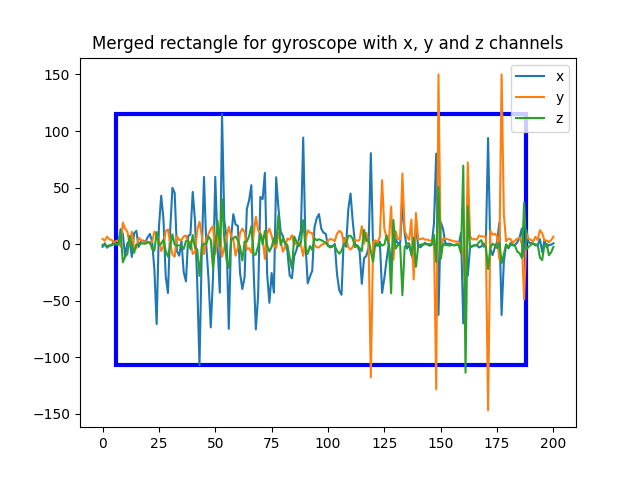
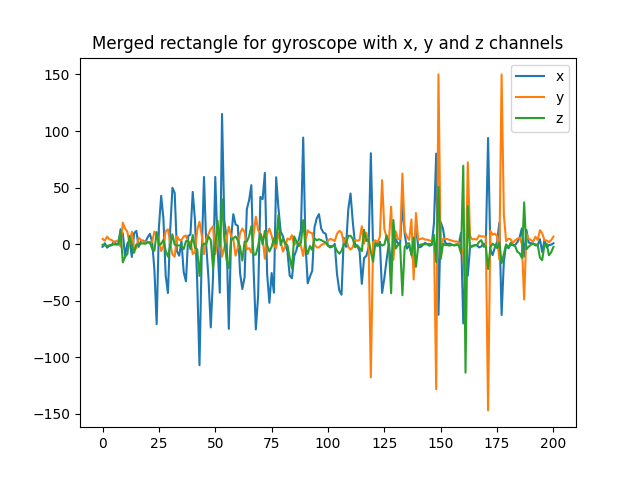
rewrite rectangle extraction, works better, need to plot

Changed region(s): [[0.1562, 0.2188, 0.8438, 0.7812]]

diff --git a/signalUtils.py b/signalUtils.py
@@ -52,46 +52,15 @@ def all_calculations(downsampled_x_accel, downsampled_y_accel, downsampled_z_acc
     
     return start_xaccel, end_xaccel, start_yaccel, end_yaccel, start_zaccel, end_zaccel
 
-def rectangle_extraction(downsampled_x_accel, downsampled_y_accel, downsampled_z_accel, start_xaccel, start_yaccel, start_zaccel, end_xaccel, end_yaccel, end_zaccel, type):
-        min_x = []
-        max_x = []
-        for i in range(0, min(len(start_xaccel), len(start_yaccel), len(start_zaccel))):
-                min_x.append(min(start_xaccel[i], start_yaccel[i], start_zaccel[i]))
-                max_x.append(max(end_xaccel[i], end_yaccel[i], end_zaccel[i]))
+def rectangle_extraction(x_coordinates, y_coordinates, z_coordinates):
+        movement_ranges = []
 
-        _, ax = plt.subplots()
-        plt.plot(downsampled_x_accel, label="x")
-        plt.plot(downsampled_y_accel, label="y")
-        plt.plot(downsampled_z_accel, label="z")
+        for x_start, x_end in x_coordinates:
+                for y_start, y_end in y_coordinates:
+                        for z_start, z_end in z_coordinates:
+                        # Check if at least 2 axes has crossing rectangles
+                                if (x_end >= y_start and y_end >= x_start) and (x_end >= z_start and z_end >= x_start):
+                                        movement_ranges.append(((x_start, x_end), (y_start, y_end), (z_start, z_end)))
 
-
-        for i in range(0, len(min_x)):
-                norm_gaussian_part = downsampled_x_accel[int(min_x[i]):int(max_x[i])]
-                min_y = min(norm_gaussian_part)
-                max_y = max(norm_gaussian_part)
-                
-                rect = Rectangle((min_x[i], min_y), max_x[i] - min_x[i], max_y - min_y, fill=False, edgecolor="blue", linewidth=3)
-                ax.add_patch(rect)
-        plt.legend()
-        plt.title(f"Merged rectangle for {type} with x, y and z channels")
-        plt.savefig(f"./images_saved/Merged_rectangles_{type}.png")
-        plt.show()
-
-        _, ax = plt.subplots()
-        norm = []
-        for i in range(0, len(downsampled_x_accel)):
-                norm.append(sqrt(pow(downsampled_x_accel[i], 2) + pow(downsampled_y_accel[i], 2) + pow(downsampled_z_accel[i], 2)))
-        plt.plot(norm, label="norm")
-
-
-        for i in range(0, len(min_x)):
-                norm_gaussian_part = norm[int(min_x[i]):int(max_x[i])]
-                min_y = min(norm_gaussian_part)
-                max_y = max(norm_gaussian_part)
-                
-                rect = Rectangle((min_x[i], min_y), max_x[i] - min_x[i], max_y - min_y, fill=False, edgecolor="red", linewidth=3)
-                ax.add_patch(rect)
-        plt.legend()
-        plt.title(f"Merged rectangle for {type} with the norm")
-        plt.savefig(f"./images_saved/Merged_rectangles_{type}_norm.png")
-        plt.show()
+        for x_range, y_range, z_range in movement_ranges:
+                print(f"X: {x_range}  Y: {y_range}  Z: {z_range}")

diff --git a/main.py b/main.py
@@ -8,14 +8,13 @@ if __name__ == "__main__":
 
         normalised_timestamp_acc, x_gyros, y_gyros, z_gyros, x_accel, y_accel, z_accel = CSV.reading_into_csv(
                 "data/our_datas/non_gesture/Non-gesture_8_Lea.csv")
-        freq = 100 # based on documentaion
 
         # PARAMETERS FOR THE REST OF THE CODE
         window_size = 20  # Size of the moving window for computing mean and standard deviation
         envelopp_multiplier = 3  # Multiplier for the standard deviation to determine the envelopp
-        threshold_multiplier = 0.4 # if too low (<0.4), detection check shows ungesture instead of gesture, if too high, gesture are too much segmented
+        threshold_multiplier = 0.7 # if too low (<0.4), detection check shows ungesture instead of gesture, if too high, gesture are too much segmented
 
-        sigma = 2
+        sigma = 1
 
         # SEGMENTATION
         start_xaccel, end_xaccel, start_yaccel, end_yaccel, start_zaccel, end_zaccel = SIGNAL.all_calculations(
@@ -30,15 +29,13 @@ if __name__ == "__main__":
 
 
         # MERGED RECTANGLES
+        # Coordonnées des segments de mouvement
         segment_start_indices = [start_xaccel, start_yaccel, start_zaccel]
         segment_end_indices = [end_xaccel, end_yaccel, end_zaccel]
 
-        SIGNAL.rectangle_extraction(x_accel, y_accel, z_accel,
-                                    start_xaccel, start_yaccel, start_zaccel,
-                                    end_xaccel, end_yaccel, end_zaccel,
-                                    "acceleration")
-        
-        SIGNAL.rectangle_extraction(x_gyros, y_gyros, z_gyros,
-                                    start_xgyros, start_ygyros, start_zgyros,
-                                    end_xgyros, end_ygyros, end_zgyros,
-                                    "gyroscope")
+        # Combinaison des coordonnées des segments pour chaque axe
+        x_coordinates = list(zip(start_xaccel, end_xaccel))
+        y_coordinates = list(zip(start_yaccel, end_yaccel))
+        z_coordinates = list(zip(start_zaccel, end_zaccel))
+
+        SIGNAL.rectangle_extraction(x_coordinates, y_coordinates, z_coordinates)

diff --git a/mathsUtils.py b/mathsUtils.py
@@ -100,9 +100,17 @@ def merge_rectangles(segment_start, segment_end):
         new_segment_end = segment_end[0]
     return new_segment_start, new_segment_end
 
-def rectangle_segmentation(segment_start: List[float], segment_end: List[float]):
-    rectangle_amount = len(segment_start)
+def rectangle_segmentation(segment_start: Tuple[List[float], List[float], List[float]], segment_end: Tuple[List[float], List[float], List[float]]):
+    min_list = min(len(segment_start[0]), len(segment_start[1]), len(segment_start[2]))
 
-    if rectangle_amount >= 3:
-        return merge_rectangles(segment_start[0], segment_end[-1])
+    new_start = []
+    new_end = []
+    for i in range(0, min_list):
+        if segment_start[0][i] != 0 and segment_start[1][i] != 0 and segment_start[2][i] != 0:
+            min_x = min(segment_start[0][i], segment_start[1][i], segment_start[2][i])
+            max_x = max(segment_end[0][i], segment_end[1][i], segment_end[2][i])
+            new_start.append(min_x)
+            new_end.append(max_x)
+
+    return new_start, new_end
 
